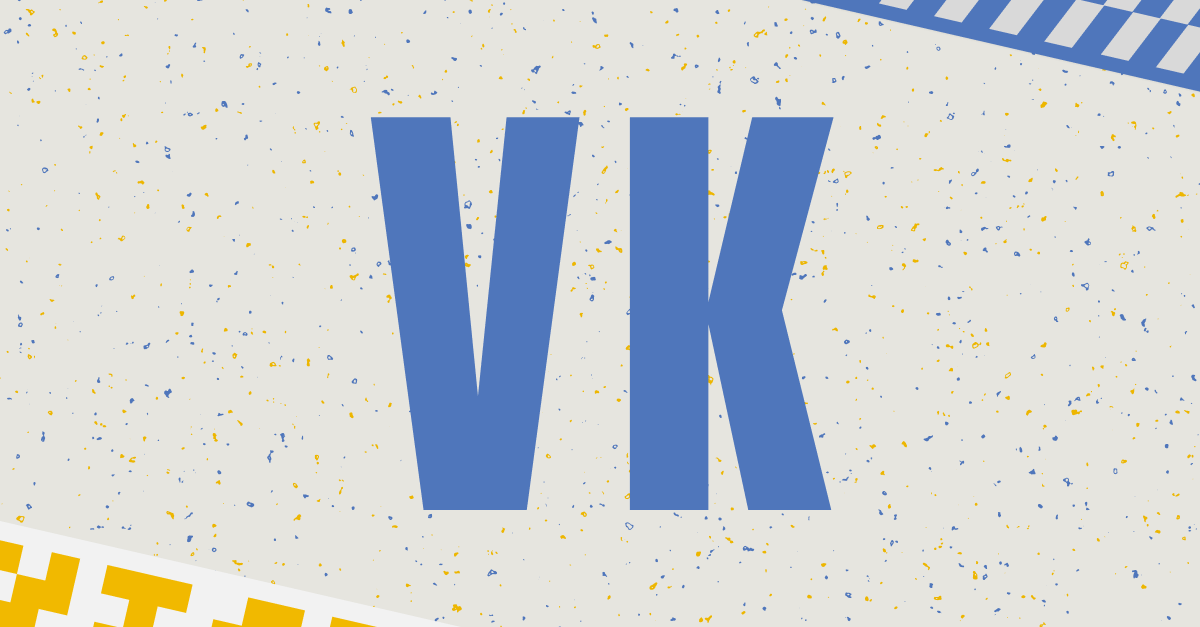
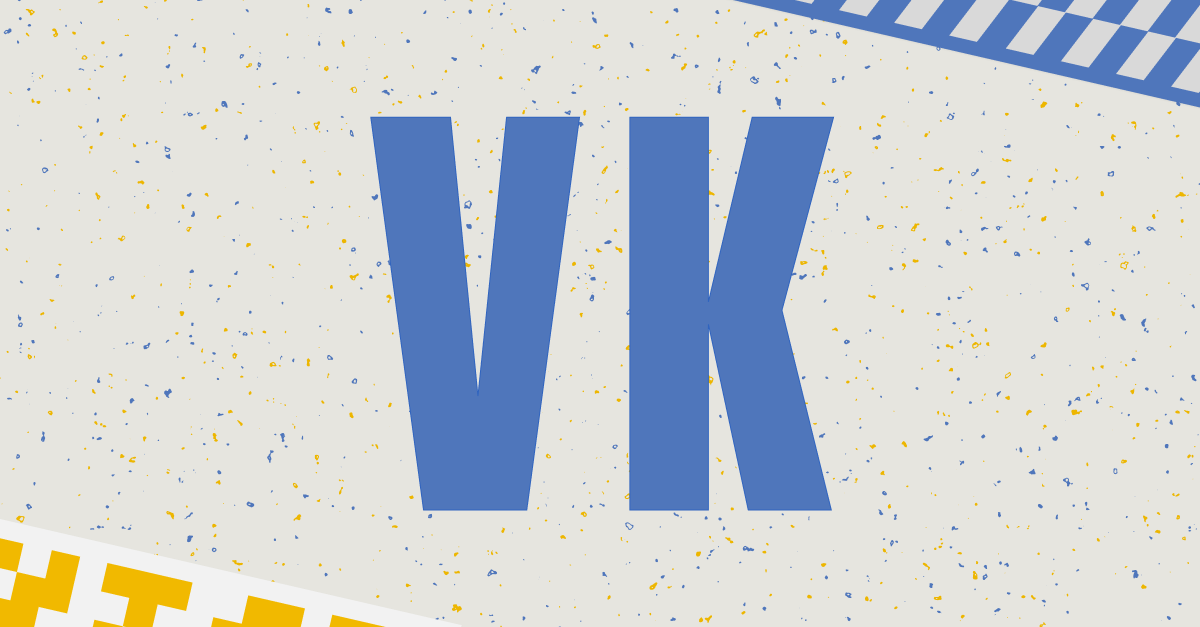
New share preview image

diff --git a/vite.config.js b/vite.config.js
@@ -7,7 +7,7 @@ import { pageTitle } from './src/pageTitle.js'
 const SITE = 'https://kovalenko.info'
 const SITE_NAME = 'Vadim Kovalenko'
 // The link-preview image every address shares (public/og-image.png, 1200×627).
-const SHARE_IMAGE = { url: `${SITE}/og-image.png`, width: 1200, height: 627 }
+const SHARE_IMAGE = { url: `${SITE}/og-image.png?v=2`, width: 1200, height: 627 }
 const SITE_TITLE = pageTitle('Product Designer')
 const SITE_DESCRIPTION =
   'Product designer in Warsaw with 7+ years in fintech, communication, and retail products. Case studies: Panther POS, BOSS Money, BOSS Revolution, zendit.'
